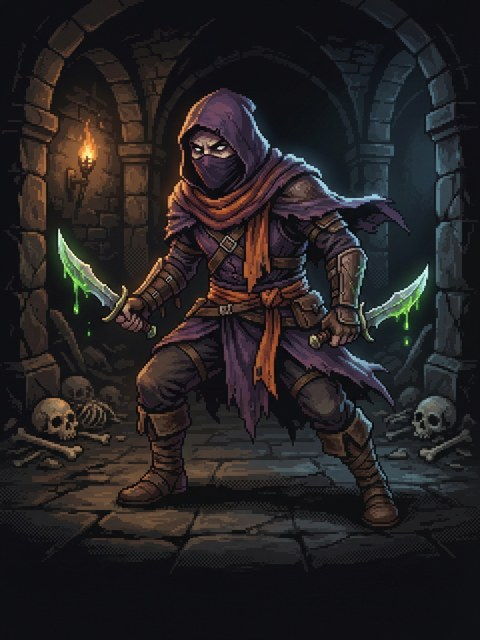
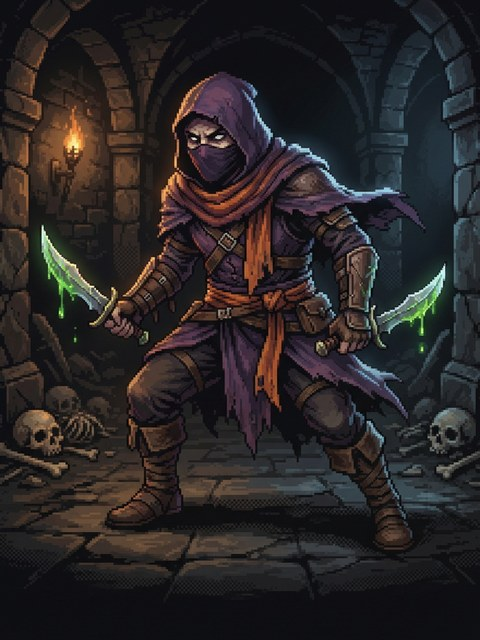
Mismo recorte para las cinco ilustraciones
Claude-Session: https://claude.ai/code/session_01VzQRCNSB2MqaNUrSxeGu6C

diff --git a/client.js b/client.js
@@ -1,10 +1,10 @@
 import {distance,setCustomMaps,testCustomMap,labCombat,cooldownLeft,critChance,classes,create,join,act,tick,paths,targetable,hasRange,inRange,castableCell,spellArea,slots,equipSlots,slotKind,polishable,statNames,onBoard,
   BASE_AP,BASE_MP,heroStats,gems,gemQualities,areaFalloff,shopRerollCost,glyphInfo,glyphText,forgeModes,forgeCost,forgeBlock,runesOf,socketsOf,monsterSkills,monsterExtraSkills,monsterVariants,skillFor,damagePreview,trainingChoices,trainingOffer,modifiableRange,reachBonus,elements,skillElement,skillSchool,damageBonus,damagePercent,castsLeft,scaledDamage,flatDamage,percentStats,skillOptions,maxBonusText,nodeKinds,modText,trapInfo,
-  lineOfSight,armorPoints,armorReduction,RESIST_CAP,playerColors,bosses,actNames,ACTS,TOTAL_FLOORS,runPoints,actOf,monsterTraits,cards,passiveCards,defaultLoadout,ACTIVE_SLOTS,MAX_ACTIVE_SLOTS,EXTRA_SLOT_PRICE,PASSIVE_SLOTS,MAX_PASSIVE_SLOTS,PASSIVE_SLOT_PRICE,passiveEffects} from './engine.js?v=179';
-import {portrait,spellIcon,equipmentIcon} from './art.js?v=179';
-import {setupSfx} from './music.js?v=179';
-import {icon} from './icons.js?v=179';
-import {openMapEditor} from './mapeditor.js?v=179';
+  lineOfSight,armorPoints,armorReduction,RESIST_CAP,playerColors,bosses,actNames,ACTS,TOTAL_FLOORS,runPoints,actOf,monsterTraits,cards,passiveCards,defaultLoadout,ACTIVE_SLOTS,MAX_ACTIVE_SLOTS,EXTRA_SLOT_PRICE,PASSIVE_SLOTS,MAX_PASSIVE_SLOTS,PASSIVE_SLOT_PRICE,passiveEffects} from './engine.js?v=180';
+import {portrait,spellIcon,equipmentIcon} from './art.js?v=180';
+import {setupSfx} from './music.js?v=180';
+import {icon} from './icons.js?v=180';
+import {openMapEditor} from './mapeditor.js?v=180';
 
 const el=id=>document.getElementById(id);
 const tintOf=u=>u&&!u.enemy?playerColors.find(c=>c.id===u.color)||null:null;
@@ -146,7 +146,7 @@ worldMount.addEventListener('graphicslost',()=>{
   iso=null;
   syncViewport();
 });
-import('./isometric.js?v=179').then(({createIso})=>{
+import('./isometric.js?v=180').then(({createIso})=>{
   iso=createIso(worldMount,(event,pos)=>{
     const cell=el('board').children[pos];
     if(event==='click')cell?.click();
@@ -637,7 +637,7 @@ function classPreview(){
   }),...(loadout.passives||[]).map(id=>h('li','passive-line',h('span','passive-art',icon('crown')),h('span',null,cards[id].name),h('small','stat-pa','Pasiva'))));
   const deck=btn('',()=>openDeck(kind));deck.className='ghost small-button deck-open';deck.append(icon('level'),'Preparar cartas');
   // Ilustración grande del personaje elegido a la izquierda; nombre, estadísticas y mazo a la derecha.
-  const big=Object.assign(document.createElement('img'),{src:'tiles/card_'+kind+'.jpg?v=179',alt:cls.name});
+  const big=Object.assign(document.createElement('img'),{src:'tiles/card_'+kind+'.jpg?v=180',alt:cls.name});
   big.onerror=()=>big.parentNode?.remove();
   el('class-preview').replaceChildren(
     h('div','preview-art',big),
@@ -650,7 +650,7 @@ function classPreview(){
 el('class').onchange=classPreview;
 el('class-cards').replaceChildren(...Object.entries(classes).map(([kind,cls])=>{
   // Tarjeta vertical con la ilustración del personaje (tiles/card_<clase>.jpg); si no carga, el retrato pequeño.
-  const art=Object.assign(document.createElement('img'),{src:'tiles/card_'+kind+'.jpg?v=179',alt:'',loading:'eager',decoding:'async'});
+  const art=Object.assign(document.createElement('img'),{src:'tiles/card_'+kind+'.jpg?v=180',alt:'',loading:'eager',decoding:'async'});
   art.onerror=()=>art.replaceWith(portrait(kind));
   const card=h('button','class-card',h('span','class-art',art),h('span','class-name',cls.name),h('small',null,roles[kind]));
   card.type='button';

diff --git a/mapeditor.js b/mapeditor.js
@@ -1,6 +1,6 @@
 // Editor de mapas (solo administradores): estilo «modo construcción», con catálogo de casillas abajo.
 // Crea, edita, prueba y guarda mapas; cada mapa pertenece a una zona (acto + tipo de sala) y tiene una frecuencia.
-import {cleanMap,mapWarnings,MAP_LIMITS,ROOM_KINDS,obstacleNames,actNames,actBiomes,ACTS,setCustomMaps,adjacent,classes,passiveCards,labEnemyOptions} from './engine.js?v=179';
+import {cleanMap,mapWarnings,MAP_LIMITS,ROOM_KINDS,obstacleNames,actNames,actBiomes,ACTS,setCustomMaps,adjacent,classes,passiveCards,labEnemyOptions} from './engine.js?v=180';
 
 const liquidNames={crypt:'Agua',jungle:'Ciénaga',hell:'Lava'};
 const floorColors={crypt:['#2f3446','#383c50'],jungle:['#2c4322','#344d27'],hell:['#2a2624','#322c29']};

diff --git a/index.html b/index.html
@@ -8,7 +8,7 @@
 <link rel="icon" type="image/svg+xml" href="favicon.svg?v=1">
   <link rel="preconnect" href="https://fonts.googleapis.com">
   <link rel="preconnect" href="https://fonts.gstatic.com" crossorigin>
-  <link rel="stylesheet" href="./style.css?v=179">
+  <link rel="stylesheet" href="./style.css?v=180">
 </head>
 <body><main>
   <header class="brand">
@@ -103,5 +103,5 @@
   <p id="gameover-points" class="gameover-points" hidden></p>
   <button id="gameover-home" class="primary big">Volver al inicio</button>
 </dialog>
-<script type="module" src="./client.js?v=179"></script></body>
+<script type="module" src="./client.js?v=180"></script></body>
 </html>

diff --git a/isometric.js b/isometric.js
@@ -1,6 +1,6 @@
 import * as T from './three.module.js';
-import {miniature,ps1Obstacle,piece,solid,useObstacleTexture} from './models3d.js?v=179';
-import {playerColors} from './engine.js?v=179';
+import {miniature,ps1Obstacle,piece,solid,useObstacleTexture} from './models3d.js?v=180';
+import {playerColors} from './engine.js?v=180';
 
 const clamp=T.MathUtils.clamp;
 const ease=t=>t*t*(3-2*t);

diff --git a/music.js b/music.js
@@ -1,5 +1,5 @@
 // Sonido del juego: efectos, ambiente por acto y música de fondo.
-import {icon} from './icons.js?v=179';
+import {icon} from './icons.js?v=180';
 export function setupSfx(button){
   let context,master;
   let muted=false;

diff --git a/CLAUDE.md b/CLAUDE.md
@@ -56,7 +56,7 @@ capturas y espera su visto bueno.
 | `server.js` / `accounts.js` / `store.js` | Servidor HTTP/salas, cuentas y cartas, guardado en Upstash. |
 | `game.test.js` | Tests (`node:test`). Helpers: `battle(classId)`, `timeout(s)` para avanzar turnos de la IA. |
 | `tiles/*.png` | Tileset por bioma y `props.png` (ver §6). |
-| `tiles/card_<clase>.jpg` | Ilustraciones de la selección de personaje (las hace el usuario con IA; 3:4, enteras, escaladas a 480×640: no recortar, se cortan pies y armas). |
+| `tiles/card_<clase>.jpg` | Ilustraciones de la selección de personaje (las hace el usuario con IA; 3:4; todas con el mismo recorte (36,40)-(828,1096) sobre el original de 864×1152 y escaladas a 480×640, sin cortar pies ni armas). |
 | `docs/skills-<clase>.md` | Hoja de habilidades de cada clase con **todas** las decisiones tomadas. Léela antes de tocar esa clase. |
 
 ### Habilidades
